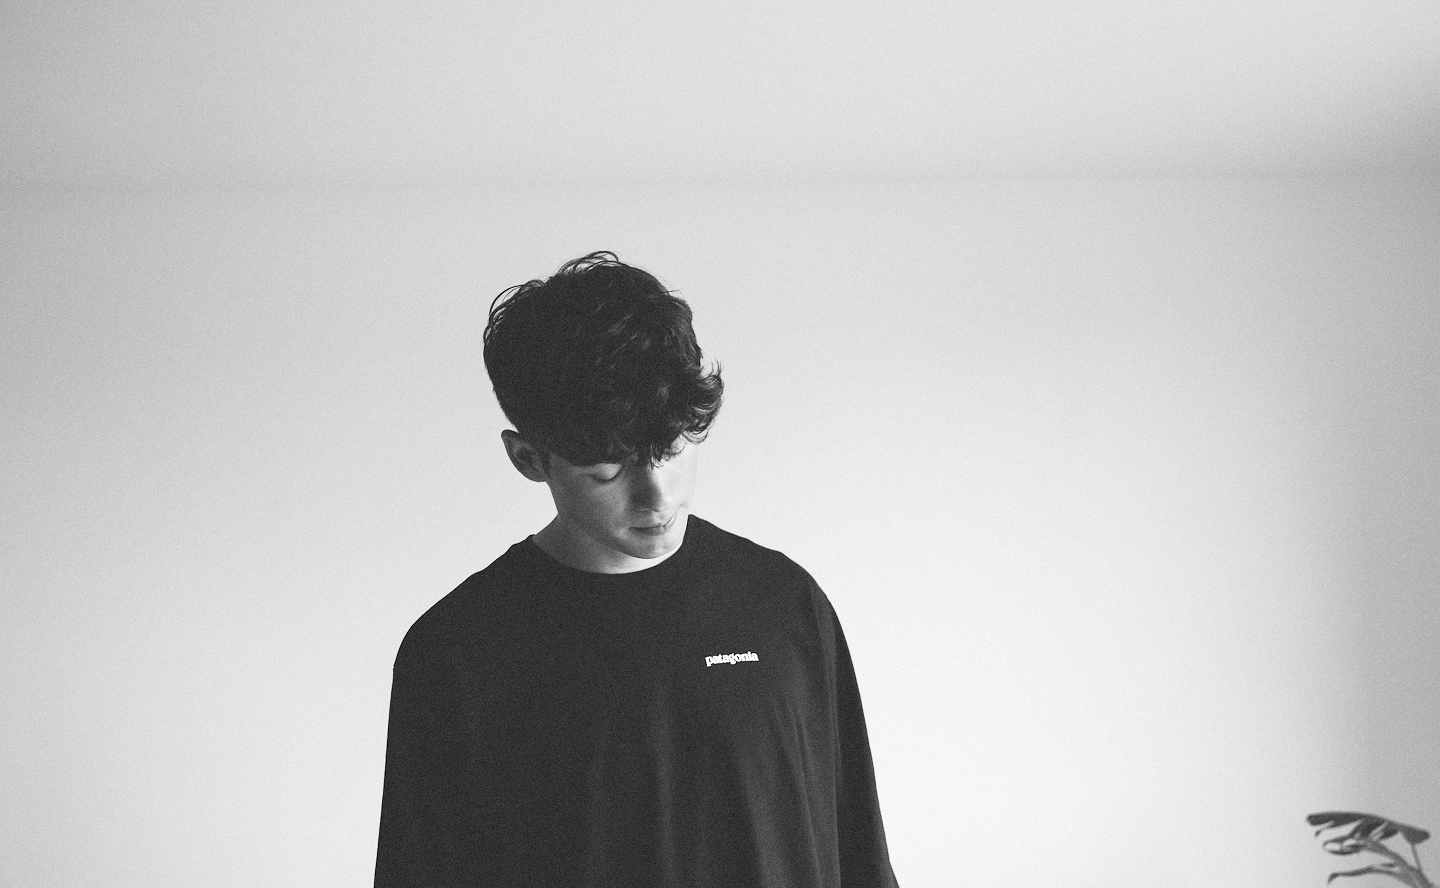
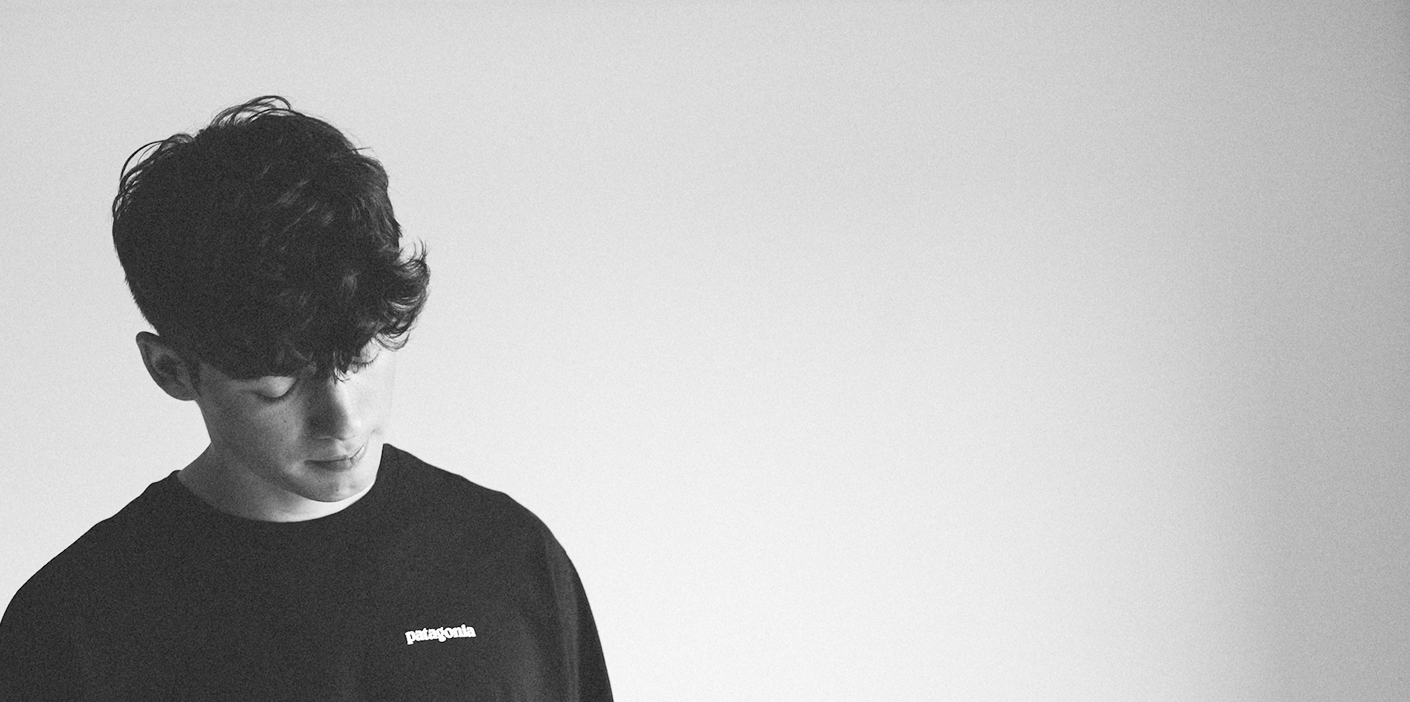
adding hero section homepage

diff --git a/src/pages/HomePage.tsx b/src/pages/HomePage.tsx
@@ -1,10 +1,11 @@
-import { useEffect, useState } from 'react'
+import { useEffect, useState, useRef } from 'react'
 import type { TProduct } from '../types/product'
 import Home from '../assets/home.png'
 
 export function HomePage() {
   const [products, setProducts] = useState<TProduct[]>([])
   const [loading, setLoading] = useState(true)
+  const productSectionRef = useRef<HTMLElement | null>(null)
 
   useEffect(() => {
     async function fetchProducts() {
@@ -23,29 +24,44 @@ export function HomePage() {
 
   return (
     <div>
-      <div>
+      <div className="relative">
+        <div className="absolute top-1/3 left-1/2 transform -translate-x-1/2 text-center z-10">
+          <h1 className="text-3xl font-semibold max-w-md mx-auto">
+            Everything you need, in one place, just for YOU!
+          </h1>
+          <button
+            onClick={() =>
+              productSectionRef.current?.scrollIntoView({ behavior: 'smooth' })
+            }
+            className="mt-4 px-6 py-2 bg-dark text-white font-bold rounded"
+          >
+            Shop Now
+          </button>
+        </div>
         <img
           src={Home}
           alt="Black and white image of a young man"
           className="w-full h-auto"
         />
       </div>
-      <div className="p-15 bg-primary"></div>
-      {loading ? (
-        <p className="text-center pt-10 font-main">Loading products...</p>
-      ) : (
-        <ul className="grid gap-4 sm:grid-cols-2 md:grid-cols-3">
-          {products.map((product) => (
-            <li key={product.id}>
-              <p>{product.title}</p>
-              <img
-                src={product.image.url}
-                alt={product.image.alt || product.title}
-              />
-            </li>
-          ))}
-        </ul>
-      )}
+      <div className="bg-primary p-10"></div>
+      <section ref={productSectionRef}>
+        {loading ? (
+          <p>Loading products...</p>
+        ) : (
+          <ul className="grid gap-4 sm:grid-cols-2 md:grid-cols-3">
+            {products.map((product) => (
+              <li key={product.id}>
+                <p>{product.title}</p>
+                <img
+                  src={product.image.url}
+                  alt={product.image.alt || product.title}
+                />
+              </li>
+            ))}
+          </ul>
+        )}
+      </section>
     </div>
   )
 }

diff --git a/src/index.css b/src/index.css
@@ -3,8 +3,8 @@
 
 @theme {
   --font-main: 'Oxygen', 'sans-serif';
-  --font-largeHeadline: 'Urbanist', 'sans-serif';
-  --font-mediumHeadline: 'Quicksand', 'sans-serif';
+  --font-large: 'Urbanist', 'sans-serif';
+  --font-medium: 'Quicksand', 'sans-serif';
   --font-navButtons: 'DM Sans', 'sans-serif';
 
   --breakpoint-3xl: 120rem;
@@ -15,7 +15,6 @@
 
   --ease-fluid: cubic-bezier(0.3, 0, 0, 1);
   --ease-snappy: cubic-bezier(0.2, 0, 0, 1);
-  /* ... */
 }
 
 @layer utilities {
